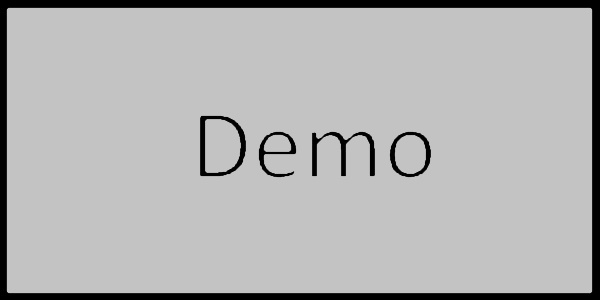
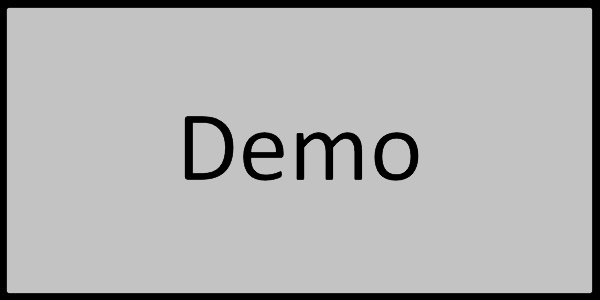
Added quit button and fixed demo button to look like the others.

Changed region(s): [[0.3, 0.36, 0.72, 0.6]]

diff --git a/src/core/src/com/engoneassessment/game/GameEntry.java b/src/core/src/com/engoneassessment/game/GameEntry.java
@@ -15,10 +15,8 @@ import com.engoneassessment.game.actors.characters.npcs.Hostile;
 import com.engoneassessment.game.screens.RoomScreen;
 import com.engoneassessment.game.screens.end.EndScreen;
 import com.engoneassessment.game.screens.rooms.*;
-import com.engoneassessment.game.screens.setting.SettingScreen;
 import com.engoneassessment.game.screens.start.StartScreen;
 import com.engoneassessment.game.ui.hud.HUDStage;
-import com.engoneassessment.game.ui.hud.minimap.RoomButton;
 
 import java.util.Random;
 
@@ -50,7 +48,6 @@ public class GameEntry extends Game {
     //Screens Objects
     private StartScreen startScreen;
     private EndScreen endScreen;
-    private SettingScreen settingScreen;
 
     //All the room screens
     private CargoScreen cargoScreen;
@@ -109,29 +106,29 @@ public class GameEntry extends Game {
         //Creates EndScreen
         endScreen = new EndScreen(this);
 
-        //Create Cargo Bay Screen
-        cargoScreen = new CargoScreen(this, "Cargo", 10);
+        //Create Cargo Bay Screen, gameEntry, screen name, number of NPCS
+        cargoScreen = new CargoScreen(this, "Cargo", 15);
 
-        //Create Command Screen
-        commandScreen = new CommandScreen(this, "Command", 10);
+        //Create Command Screen, gameEntry, screen name, number of NPCS
+        commandScreen = new CommandScreen(this, "Command", 15);
 
-        //Create Electrical Screen
-        electricalScreen = new ElectricalScreen(this, "Electrical", 10);
+        //Create Electrical Screen, gameEntry, screen name, number of NPCS
+        electricalScreen = new ElectricalScreen(this, "Electrical", 15);
 
-        //Create Engine Screen
-        engineScreen = new EngineScreen(this, "Engine", 10);
+        //Create Engine Screen, gameEntry, screen name, number of NPCS
+        engineScreen = new EngineScreen(this, "Engine", 15);
 
-        //Create Hanger Screen
-        hangerScreen = new HangerScreen(this, "Hanger", 10);
+        //Create Hanger Screen, gameEntry, screen name, number of NPCS
+        hangerScreen = new HangerScreen(this, "Hanger", 15);
 
-        //Create Infirmary Screen
+        //Create Infirmary Screen, gameEntry, screen name, number of NPCS
         infirmaryScreen = new InfirmaryScreen(this, "Infirmary", 0);
 
-        //Create Oxygen Screen
-        oxygenScreen = new OxygenScreen(this, "Oxygen", 10);
+        //Create Oxygen Screen, gameEntry, screen name, number of NPCS
+        oxygenScreen = new OxygenScreen(this, "Oxygen", 15);
 
 
-        //Create Brig Screen
+        //Create Brig Screen, gameEntry, screen name, number of NPCS
         brigScreen = new BrigScreen(this, "Brig", 0);
 
         //spawnable screens keeps track of the screens enemies can spawn on
@@ -310,7 +307,7 @@ public class GameEntry extends Game {
                     //Adds the hostile to the room and moves it to the location of a non hostile in the room
                     brigScreen.hostiles.add(new_hostile);
                     //Random X, random Y above room
-                    new_hostile.setPosition(random.nextInt(brigScreen.getMaxX() - brigScreen.getMinX()) + brigScreen.getMinX(), random.nextInt(brigScreen.getMaxY() - brigScreen.getMinY()) + brigScreen.getMaxY() - brigScreen.getMinY());
+                    new_hostile.setPosition(random.nextInt(brigScreen.getMaxX() - brigScreen.getMinX()) + brigScreen.getMinX(), random.nextInt(brigScreen.getMaxY() - brigScreen.getMinY()) + brigScreen.getMaxY()+(brigScreen.getMaxY() - brigScreen.getMinY()));
                     brigScreen.stage.addActor(hostile);
 
                     caughtHostiles += 1;

diff --git a/src/core/src/com/engoneassessment/game/screens/start/StartScreen.java b/src/core/src/com/engoneassessment/game/screens/start/StartScreen.java
@@ -20,16 +20,15 @@ import com.engoneassessment.game.ui.controls.ButtonClickListener;
 import com.engoneassessment.game.ui.controls.labels.LabelStyles;
 import com.engoneassessment.game.ui.startui.DemoButton;
 import com.engoneassessment.game.ui.startui.PlayButton;
+import com.engoneassessment.game.ui.startui.QuitButton;
 
 public class StartScreen implements Screen {
 
     private GameEntry gameEntry;
-    private Texture logoTexture;
     public UIStage uiStage;
-    private CustomActor customActor;
-    private TextField usernameTextField;
     private PlayButton playButton;
     private DemoButton demoButton;
+    private QuitButton quitButton;
 
     private Label labelGameTitle;
 
@@ -46,13 +45,13 @@ public class StartScreen implements Screen {
         uiStage = new UIStage(new StretchViewport(GameEntry.VIEW_WIDTH, GameEntry.VIEW_HEIGHT));
 
         labelGameTitle = new Label("Auber Game", LabelStyles.getGameTitleLabelStyle());
-        labelGameTitle.setPosition(uiStage.getWidth()/2-labelGameTitle.getWidth()/2,600);
+        labelGameTitle.setPosition(uiStage.getWidth()/2-labelGameTitle.getWidth()/2,800);
 
         //Creates the play button and move it to the correct place
         playButton = new PlayButton(this.uiStage);
         playButton.setWidth(playButton.getWidth()/1.5f);
         playButton.setHeight(playButton.getHeight()/1.5f);
-        playButton.setPosition(uiStage.getWidth()/2-playButton.getWidth()/2,300);
+        playButton.setPosition(uiStage.getWidth()/2-playButton.getWidth()/2,500);
 
         //Detects any inputs related to the play button
         playButton.setClickListener(new ButtonClickListener(){
@@ -72,7 +71,7 @@ public class StartScreen implements Screen {
         demoButton = new DemoButton(this.uiStage);
         demoButton.setWidth(demoButton.getWidth()/1.5f);
         demoButton.setHeight(demoButton.getHeight()/1.5f);
-        demoButton.setPosition(uiStage.getWidth()/2-demoButton.getWidth()/2,80);
+        demoButton.setPosition(uiStage.getWidth()/2-demoButton.getWidth()/2,280);
 
         //Detects any inputs related to the demo button
         demoButton.setClickListener(new ButtonClickListener(){
@@ -85,6 +84,25 @@ public class StartScreen implements Screen {
                 gameEntry.setScreen(gameEntry.getInfirmaryScreen());
                 gameEntry.setSpawnTime(System.currentTimeMillis());
                 gameEntry.setDemo(true);
+            }
+        });
+
+        //Creates the quit button and move it to the correct place
+        quitButton = new QuitButton(this.uiStage);
+        quitButton.setWidth(quitButton.getWidth()/1.5f);
+        quitButton.setHeight(quitButton.getHeight()/1.5f);
+        quitButton.setPosition(uiStage.getWidth()/2-quitButton.getWidth()/2,60);
+
+        //Detects any inputs related to the demo button
+        quitButton.setClickListener(new ButtonClickListener(){
+            /** Called when a mouse button or a finger touch goes up anywhere, but only if touchDown previously returned true for the mouse
+             * button or touch. The touchUp event is always {@link Event#handle() handled}.
+             * @see ButtonClickListener */
+            @Override
+            public void clicked(InputEvent event, float x, float y) {
+                super.clicked(event, x, y);
+                Gdx.app.exit();
+
             }
         });
 

diff --git a/src/core/src/com/engoneassessment/game/ui/startui/QuitButton.java b/src/core/src/com/engoneassessment/game/ui/startui/QuitButton.java
@@ -1,0 +1,26 @@
+package com.engoneassessment.game.ui.startui;
+
+import com.badlogic.gdx.graphics.Texture;
+import com.badlogic.gdx.graphics.g2d.TextureRegion;
+import com.engoneassessment.game.ui.UIStage;
+import com.engoneassessment.game.ui.controls.Button;
+
+public class QuitButton extends Button {
+
+    /**
+     * Constructor of a MapButton
+     * the texture input will be its mapping texture.
+     *
+     * @param parentUIStage
+     */
+    public QuitButton(UIStage parentUIStage) {
+        super(  parentUIStage,
+                new TextureRegion(
+                        new Texture("Menu/Buttons/quitNormal.jpg")),
+                new TextureRegion(
+                        new Texture("Menu/Buttons/quitHovered.jpg")),
+                new TextureRegion(
+                        new Texture("Menu/Buttons/quitPressed.jpg")),
+                null);
+    }
+}

diff --git a/src/desktop/src/com/engoneassessment/game/desktop/DesktopLauncher.java b/src/desktop/src/com/engoneassessment/game/desktop/DesktopLauncher.java
@@ -9,11 +9,10 @@ public class DesktopLauncher {
 		LwjglApplicationConfiguration config = new LwjglApplicationConfiguration();
 
 		float scale = 0.6F;
-		//config.fullscreen = true;
 		config.title = "Auber Game - York CS ENG1 Assessment - Team 23";
 		config.width = (int) (1920 * scale);
 		config.height = (int) (1080 * scale);
-		//config.fullscreen = true;
+		config.fullscreen = true;
 
 		config.resizable = true;
 		new LwjglApplication(new GameEntry(), config);

diff --git a/src/core/src/com/engoneassessment/game/ui/hud/minimap/RoomButton.java b/src/core/src/com/engoneassessment/game/ui/hud/minimap/RoomButton.java
@@ -32,7 +32,7 @@ public class RoomButton extends Button {
         this.roomName = roomName;
         isCurrentRoom = false;
         label = new Label(roomName, LabelStyles.usingImpactFontStyle(
-                true,0.3f,0.75f,0.75f,0.75f,1f)
+                true,0.3f,1f,0.3f,0f,1f)
                     );
         label.setVisible(false);
         labelNonUIAnimationHelper = new NonUIAnimationHelper(label);
